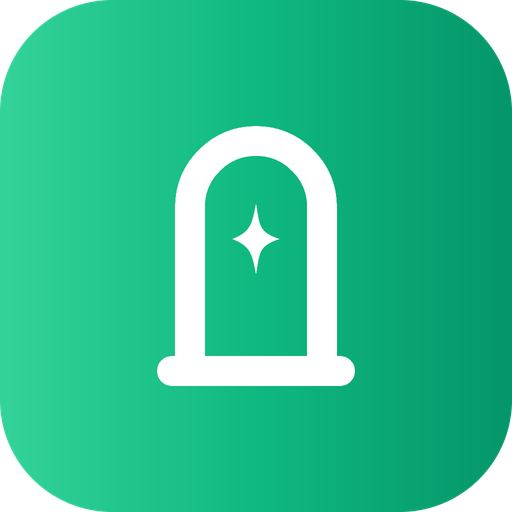
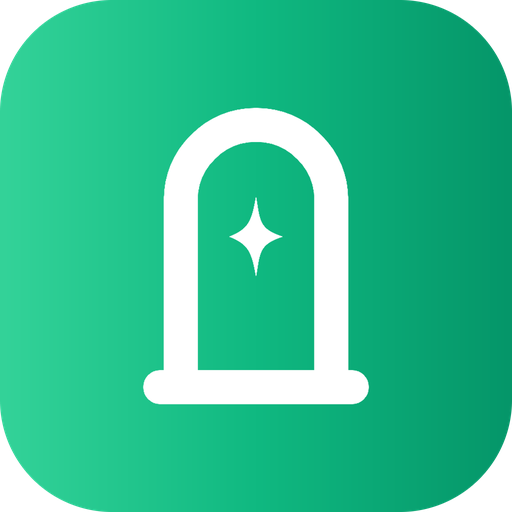
style(ui): 拱门字形等比例放大 14%
图标里的拱门略小。实测源图白色字形 bbox 为 396x520（1024 画布），
中心 (511.5, 511.5) 恰为画布中心，四周留白完全对称（左右各 314 / 上下各 252）。

以字形中心等比放大 1.14 -> 451x592，底色渐变与圆角保持不变。
字形放到 1.26 倍仍不触边（最小留白 184px），1.14 是留有余量的档位。

- favicon.ico            23,067 -> 24,535 B
- favicon-16x16.png         610 -> 667 B
- favicon-32x32.png       1,250 -> 1,332 B
- apple-touch-icon / android-chrome-192 / -512 同步
- 登录页与仪表盘 favicon 版本号 ?v=3 -> ?v=4

验证（与 git HEAD 旧图逐尺寸量字形 bbox）：
  android-chrome-512   198x260 -> 226x296   宽比 1.141  高比 1.138  面积比 1.296
  android-chrome-192    74x 98 ->  84x110   宽比 1.135  高比 1.122  面积比 1.303
  favicon-32x32         12x 16 ->  14x 18
理论面积比 1.14^2 = 1.300，实测吻合。
docker compose build 镜像 ID 852ba2c -> abc39d0，容器 Up (healthy)；
容器内 /app/static 与宿主机字节数逐项一致；登录页 HTML 已带 ?v=4。

另把图标生成脚本合并为单一参数化脚本 apply_icon.py <A|B|C> <scale>。

Changed region(s): [[0.2812, 0.1875, 0.7188, 0.8125], [0.4375, 0.4062, 0.5625, 0.4688]]

diff --git a/internal/web/web.go b/internal/web/web.go
@@ -13,10 +13,10 @@ func RenderLogin() string {
   <meta charset="UTF-8">
   <meta name="viewport" content="width=device-width, initial-scale=1.0">
   <title>AI Gateway Login</title>
-  <link rel="icon" type="image/x-icon" href="/favicon.ico?v=3">
-  <link rel="icon" type="image/png" sizes="16x16" href="/static/favicon-16x16.png?v=3">
-  <link rel="icon" type="image/png" sizes="32x32" href="/static/favicon-32x32.png?v=3">
-  <link rel="apple-touch-icon" sizes="180x180" href="/static/apple-touch-icon.png?v=3">
+  <link rel="icon" type="image/x-icon" href="/favicon.ico?v=4">
+  <link rel="icon" type="image/png" sizes="16x16" href="/static/favicon-16x16.png?v=4">
+  <link rel="icon" type="image/png" sizes="32x32" href="/static/favicon-32x32.png?v=4">
+  <link rel="apple-touch-icon" sizes="180x180" href="/static/apple-touch-icon.png?v=4">
   <link rel="manifest" href="/static/site.webmanifest">
   <style>
     * { margin:0; padding:0; box-sizing:border-box; }
@@ -175,10 +175,10 @@ func renderDashboardTemplate(providerDataJSON string) string {
   <meta charset="UTF-8">
   <meta name="viewport" content="width=device-width, initial-scale=1.0">
   <title>AI Gateway Dashboard</title>
-  <link rel="icon" type="image/x-icon" href="/favicon.ico?v=3">
-  <link rel="icon" type="image/png" sizes="16x16" href="/static/favicon-16x16.png?v=3">
-  <link rel="icon" type="image/png" sizes="32x32" href="/static/favicon-32x32.png?v=3">
-  <link rel="apple-touch-icon" sizes="180x180" href="/static/apple-touch-icon.png?v=3">
+  <link rel="icon" type="image/x-icon" href="/favicon.ico?v=4">
+  <link rel="icon" type="image/png" sizes="16x16" href="/static/favicon-16x16.png?v=4">
+  <link rel="icon" type="image/png" sizes="32x32" href="/static/favicon-32x32.png?v=4">
+  <link rel="apple-touch-icon" sizes="180x180" href="/static/apple-touch-icon.png?v=4">
   <link rel="manifest" href="/static/site.webmanifest">
   <script src="/static/tailwind.js"></script>
   <script src="/static/vue.global.js"></script>
